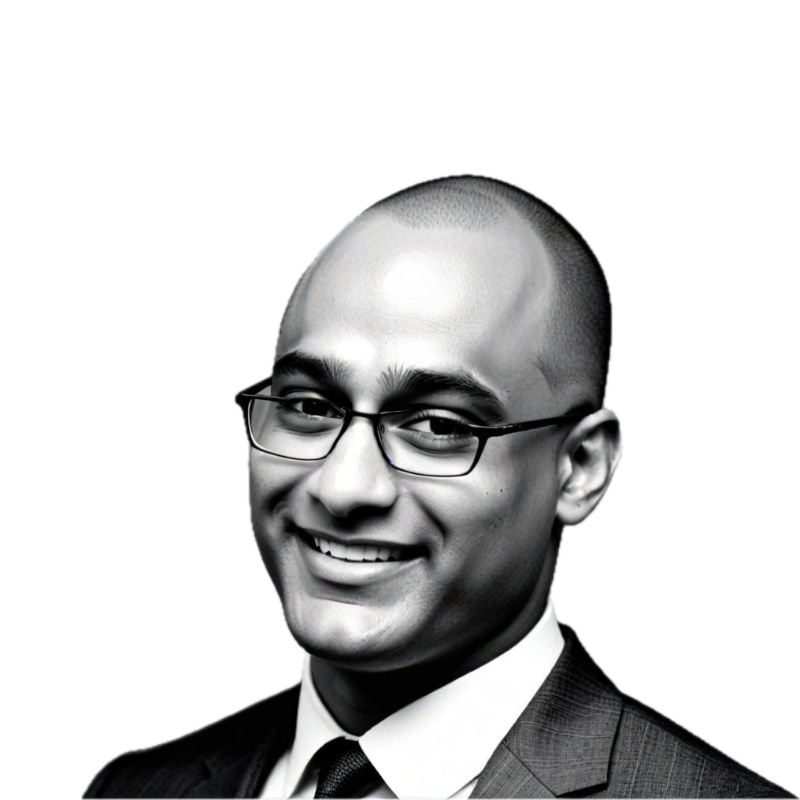
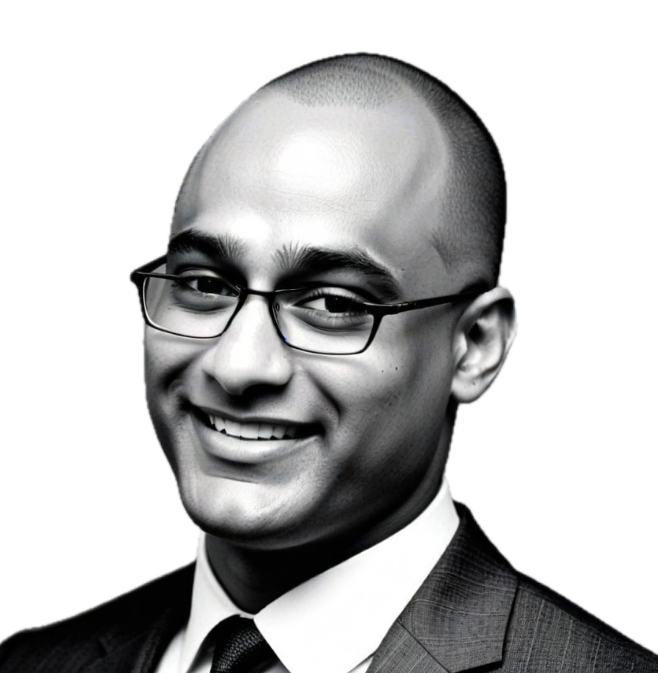
gray

diff --git a/app/Portfolio/src/components/about.tsx b/app/Portfolio/src/components/about.tsx
@@ -47,7 +47,7 @@ export const About = () => {
             width="100%"
             height="100%"
             loading="lazy"
-            className="w-72 h-72 rounded-lg border-6 dark:border-gray-500 shadow-xl object-cover"
+            className="w-72 h-72 rounded-lg border-6 dark:border-gray-500 shadow-xl object-cover opacity-90 dark:filter dark:grayscale"
           />
         </div>
       </div>
